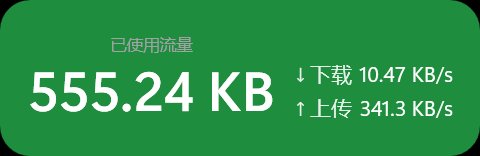
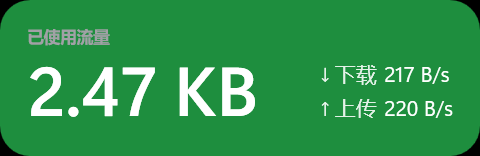
feat(capsule): align caption with traffic value

diff --git a/HotspotMeter.App/Views/CapsuleWindow.xaml b/HotspotMeter.App/Views/CapsuleWindow.xaml
@@ -21,6 +21,11 @@
         FontFamily="Segoe UI Variable Text, Segoe UI, Microsoft YaHei UI"
         d:DataContext="{d:DesignInstance Type=vm:CapsuleViewModel}">
 
+    <Window.Resources>
+        <!-- 标签与数字共用同一字体家族，避免"说明像另一种字体"的割裂感。 -->
+        <FontFamily x:Key="TrafficFontFamily">Segoe UI Variable Display, Segoe UI, Microsoft YaHei UI</FontFamily>
+    </Window.Resources>
+
     <Window.ContextMenu>
         <ContextMenu Style="{StaticResource CapsuleContextMenuStyle}">
             <!--
@@ -48,46 +53,43 @@
             ToolTip="{Binding TooltipText}"
             MouseLeftButtonDown="OnSurfaceMouseLeftButtonDown">
         <!--
-            4C-10：左侧恢复"已使用流量"说明，并放到数字上方。
-            标签与数字同处第 0 列、各自水平居中，因此标签中心与数字中心对齐；
-            速度块单独占第 1 列的第 1 行，和数字同处一行并 VerticalAlignment=Center，
+            4C-11：标签与数字合并为左侧同一组视觉元素。
+            外层 StackPanel 是二者唯一的垂直布局容器：先标签、后数字，二者都 HorizontalAlignment=Left，
+            因此左边缘由同一个布局基准决定，不靠 Margin/绝对定位模拟。
+            数字与速度块放在内层 Grid 的同一行，速度块仍 VerticalAlignment=Center，
             所以 4C-6 的"速度块中心 = 流量数字中心"关系保持不变。
-            两行整体在外层 Grid 里垂直居中。
         -->
-        <Grid Margin="{Binding CapsuleContentMargin}" VerticalAlignment="Center">
-            <Grid.ColumnDefinitions>
-                <ColumnDefinition Width="*" />
-                <ColumnDefinition Width="Auto" />
-            </Grid.ColumnDefinitions>
-            <Grid.RowDefinitions>
-                <RowDefinition Height="Auto" />
-                <RowDefinition Height="Auto" />
-            </Grid.RowDefinitions>
-
+        <StackPanel Margin="{Binding CapsuleContentMargin}" VerticalAlignment="Center">
             <TextBlock x:Name="TrafficCaption"
-                       Grid.Row="0" Grid.Column="0"
                        Text="已使用流量"
-                       FontSize="{Binding CaptionFontSize}"
+                       FontFamily="{StaticResource TrafficFontFamily}"
+                       FontSize="{Binding CaptionFontSize}" FontWeight="SemiBold"
                        Foreground="{StaticResource TextSecondary}"
-                       HorizontalAlignment="Center" VerticalAlignment="Bottom"
+                       HorizontalAlignment="Left"
                        Margin="{Binding CaptionMargin}"
                        Visibility="{Binding ShowCaption, Converter={StaticResource BoolToVisibility}}" />
 
-            <!--
-                流量数字放在 Viewbox 里：正常文本不放大；极端长文本（例如 999.9 GB）
-                在窄胶囊中只会等比缩小，绝不会裁切或把速度块挤出窗口。
-            -->
-            <Viewbox Grid.Row="1" Grid.Column="0"
-                     Stretch="Uniform" StretchDirection="DownOnly"
-                     HorizontalAlignment="Center" VerticalAlignment="Center">
-                <TextBlock x:Name="TrafficValue"
-                           Text="{Binding SessionText}"
-                           FontFamily="Segoe UI Variable Display, Segoe UI, Microsoft YaHei UI"
-                           FontSize="{Binding TrafficFontSize}" FontWeight="SemiBold" Foreground="White"
-                           LineHeight="{Binding TrafficLineHeight}" LineStackingStrategy="BlockLineHeight" />
-            </Viewbox>
+            <Grid>
+                <Grid.ColumnDefinitions>
+                    <ColumnDefinition Width="*" />
+                    <ColumnDefinition Width="Auto" />
+                </Grid.ColumnDefinitions>
 
-            <StackPanel x:Name="SpeedBlock" Grid.Row="1" Grid.Column="1"
+                <!--
+                    流量数字放在 Viewbox 里：正常文本不放大；极端长文本（例如 999.9 GB）
+                    在窄胶囊中只会等比缩小，绝不会裁切或把速度块挤出窗口。
+                -->
+                <Viewbox Grid.Column="0"
+                         Stretch="Uniform" StretchDirection="DownOnly"
+                         HorizontalAlignment="Left" VerticalAlignment="Center">
+                    <TextBlock x:Name="TrafficValue"
+                               Text="{Binding SessionText}"
+                               FontFamily="{StaticResource TrafficFontFamily}"
+                               FontSize="{Binding TrafficFontSize}" FontWeight="SemiBold" Foreground="White"
+                               LineHeight="{Binding TrafficLineHeight}" LineStackingStrategy="BlockLineHeight" />
+                </Viewbox>
+
+                <StackPanel x:Name="SpeedBlock" Grid.Column="1"
                         VerticalAlignment="Center" HorizontalAlignment="Right"
                         Grid.IsSharedSizeScope="True"
                         UseLayoutRounding="False"
@@ -120,5 +122,6 @@
                 </Grid>
             </StackPanel>
         </Grid>
+        </StackPanel>
     </Border>
 </Window>

diff --git a/HotspotMeter.App/Services/UiDump.cs b/HotspotMeter.App/Services/UiDump.cs
@@ -257,7 +257,8 @@ internal static class UiDump
             : 0;
 
         var captionAbove = false;
-        var captionCentered = false;
+        var captionLeftAligned = false;
+        var captionFontMatch = false;
         var captionVisible = false;
         if (window.FindName("TrafficCaption") is TextBlock caption &&
             window.FindName("TrafficValue") is TextBlock trafficValue)
@@ -268,15 +269,18 @@ internal static class UiDump
             var trafficRect = trafficValue.TransformToAncestor(window)
                 .TransformBounds(new Rect(0, 0, trafficValue.ActualWidth, trafficValue.ActualHeight));
             captionAbove = captionRect.Bottom <= trafficRect.Top + 0.5;
-            captionCentered = Math.Abs(captionRect.Left + captionRect.Width / 2 -
-                                       (trafficRect.Left + trafficRect.Width / 2)) <= 0.5;
+            captionLeftAligned = Math.Abs(captionRect.Left - trafficRect.Left) <= 0.5;
+            captionFontMatch = string.Equals(
+                caption.FontFamily.Source, trafficValue.FontFamily.Source, StringComparison.OrdinalIgnoreCase);
         }
 
         // 自动适配的 Compact/Minimal 密度有意隐藏标签；此时只校验"没有状态文字/图标"。
-        var captionOk = !captionVisible || (captionPresent && captionAbove && captionCentered);
+        var captionOk = !captionVisible ||
+                        (captionPresent && captionAbove && captionLeftAligned && captionFontMatch);
         var ok = !statusPresent && captionOk && !hasWifiPath;
         return $"simplified ok={ok} statusText={statusPresent} caption={captionPresent} " +
-               $"captionVisible={captionVisible} captionAbove={captionAbove} captionCentered={captionCentered} " +
+               $"captionVisible={captionVisible} captionAbove={captionAbove} " +
+               $"captionLeftAligned={captionLeftAligned} captionFontMatch={captionFontMatch} " +
                $"wifiIcon={hasWifiPath} trafficFont={trafficFont:0.#} speedFont={speedFont:0.#}";
     }
 

diff --git a/docs/02_UI_Specification.md b/docs/02_UI_Specification.md
@@ -1,4 +1,4 @@
-# 02 UI 规范
+# 02 UI 规范
 
 > 标注说明：
 > **【已确认】** 来自用户总指令，不得擅自修改。
@@ -56,7 +56,7 @@
 
 - **左上**：Wi-Fi 状态图标 + 连接状态文字（"已连接" / "未连接"）。
 - **右上**：当前会话已用流量，大字号（【暂定】28–32 px），是整块视觉焦点。
-- **数字上方**："已使用流量"小字（【暂定】10–11 px，次级颜色）。阶段 4C-10 起固定在数字上方；此前版本在下方。
+- **数字上方**："已使用流量"小字（【暂定】10–11 px，次级颜色），与数字同字体家族、同字重、左边缘对齐。阶段 4C-10 起固定在数字上方，4C-11 起改为左对齐；此前版本在下方且居中。
 - **右下**：`↓ 下载速度` 与 `↑ 上传速度`，小字（【暂定】10–11 px）。
 - 未连接时，流量数字旁/下方必须有"上次会话"字样，明确这是历史数据。
 
@@ -224,17 +224,19 @@
 
 - 尺寸：标准 320×104 DIP，圆角 20；预设迷你 220×71.5 / 小型 280×91 / 标准 320×104 / 大型 400×130；
   自定义范围 220–480 × 71.5–156，宽高比固定 320 : 104（容差 1.2%）。全部视觉量由同一个缩放系数派生。
-- 结构（阶段 4C-10，基于 4C-8 精简版）：不显示 Wi-Fi 图标与连接状态（由底色表达）；左侧为
-  "已使用流量"小标签 + 会话累计流量数字（标准档 46 DIP，随尺寸等比），标签在数字正上方、二者水平居中对齐；
+- 结构（阶段 4C-11，基于 4C-8 精简版）：不显示 Wi-Fi 图标与连接状态（由底色表达）；左侧为
+  "已使用流量"小标签 + 会话累计流量数字（标准档 46 DIP，随尺寸等比）。二者放在同一个垂直 `StackPanel` 中，
+  都 `HorizontalAlignment=Left`，左边缘由同一布局基准决定（不使用 Margin/绝对定位模拟对齐）；标签在数字正上方。
   右侧 ↓ 下载 / ↑ 上传两行竖排实时速度（下载在上、上传在下）。
   流量数字放在 `Viewbox`（只缩小、不裁切），长文本如"999.9 GB"仍完整显示。
-- 说明标签（4C-10）：字号 11×缩放系数、`TextSecondary #A1A1A6`、与数字间距 2×缩放系数 DIP；
+- 说明标签（4C-11）：字号 11×缩放系数、`TextSecondary #A1A1A6`、`FontWeight=SemiBold`、与数字间距 2×缩放系数 DIP；
+  与数字共用 `TrafficFontFamily`（`Segoe UI Variable Display, Segoe UI, Microsoft YaHei UI`）。
   自动适配的 Compact/Minimal 密度因高度不足隐藏该标签，Normal 密度与普通四档/自定义尺寸始终显示。
 - 对齐（阶段 4C-6）：流量数字与速度块放在**同一个 Grid 行的同一行高**里，二者都是
   `VerticalAlignment="Center"`，因此速度块整体中心严格等于流量数字控件的中心；不依赖任何手工 Margin。
   四档 + 自定义尺寸均由 `UiDump.CheckSpeedAlignment` 断言（容差 0.5 DIP），实测偏差 ≤0.33 DIP。
 - 连不上热点时左侧显示"上次 {流量}"，不显示连接状态文字；`_` 表示从未有会话。
-- 四档均通过"文本全在窗口内且互不重叠"的矩形断言（`layout=ok texts=7`）。
+- 四档均通过"文本全在窗口内且互不重叠"的矩形断言（`layout=ok texts=8`）。
 - 颜色：胶囊背景仍按连接状态使用绿色 `#1E8E3E` / 红色 `#C5221F`（连接状态只保留背景语义）；
   文字 `#F5F5F7`，速度标签 `#A1A1A6`。
 
@@ -287,7 +289,7 @@
 - 已知限制：任务栏低于 44 DIP 时无法在保持完整可读信息的前提下完整适配；任务栏激活后仍可能短暂遮挡，
   独立窗口没有原生任务栏组件的层级契约。
 
-### 7.7 精简胶囊的实测尺寸（阶段 4C-8，4C-10 增补标签）
+### 7.7 精简胶囊的实测尺寸（阶段 4C-8，4C-11 标签左对齐）
 
 | 模式 | 尺寸（DIP） | 流量字号 | 速度字号 | 说明 |
 | --- | --- | --- | --- | --- |
@@ -307,15 +309,17 @@
   不用 `Topmost=false→true` 抢焦点；自动适配模式的位置夹取以显示器边界为界（可拖入任务栏），
   普通模式以工作区 + 8 DIP 为界（4C-9 修订）。
 
-### 7.8 说明标签与数字的实测几何（阶段 4C-10）
+### 7.8 说明标签与数字的实测几何（阶段 4C-11）
 
 标准档 320×104、150% DPI，UiDump 实测（窗口内 DIP 坐标）：
 
 | 元素 | 位置/尺寸 |
 | --- | --- |
-| "已使用流量" | x=85.3, y=16.7, 54.7×14.7，字号 11 |
-| 流量数字 | x=55.3, y=33.3, 114.7×54，字号 46 |
+| "已使用流量" | x=18, y=16.7, 54.7×14.7，字号 11，SemiBold |
+| 流量数字 | x=18, y=33.3, 146.7×54，字号 46，SemiBold |
 | ↓/↑ 速度块 | y=39.7..80.9，中心 60.3 |
 
-- 标签底边 31.4，数字顶边 33.3，间距 1.9 DIP；二者水平中心均为 112.65。
+- 标签与数字左边缘均为 x=18，严格对齐（UiDump `captionLeftAligned delta=0`）。
+- 标签底边 31.4，数字顶边 33.3，间距 1.9 DIP；两者字体家族同为 `Segoe UI Variable Display`。
 - 速度块中心 60.3 = 数字控件中心 60.3，4C-6 的对齐基准未被破坏。
+

diff --git a/PROJECT_CONTEXT.md b/PROJECT_CONTEXT.md
@@ -11,7 +11,7 @@ Windows 原生 WPF 工具，监控电脑连接手机 Wi-Fi 热点时的网卡流
 
 | 项目 | 状态 |
 | --- | --- |
-| 当前阶段 | **阶段 4C-10 已实现（胶囊"已使用流量"标签移至数字上方，构建 0/0，385/385 测试通过），等待用户验收** |
+| 当前阶段 | **阶段 4C-11 已实现（胶囊标签与数字统一字体家族、左边缘对齐，构建 0/0，385/385 测试通过），等待用户验收** |
 | 代码状态 | Core：模型/接口/累积器/恢复判定；Infrastructure：WLAN 检测、计数器、`MonitorEngine`、系统时钟、SQLite 基础设施（3A）、业务表 v2/v3 与基础仓储/OperationId/时间切分/日汇总/摘要编码（3B-1～3B-5a）；App：胶囊窗口 + `CapsuleViewModel` + `MonitorSessionService` + 窗口位置/尺寸存储 + 托盘 + 设置窗口；`tools/ApiProbe`（阶段 1 原型）与 `tools/MonitorHost`（阶段 2 宿主），均不入解决方案 |
 | 未实现 | 统计窗口、右键菜单“流量统计”功能、快照/会话持久化管线（StepBuffer、`StepProduced`、`SessionPersistenceService`、Settlement 入口、Writer 状态机）、启动恢复与一致性修复、开机启动、用户选择目标热点 |
 | 下一次要做的事 | 用户验收 4C-9（重点：开启自动适配后胶囊是否落在任务栏底部偏左、能否拖进任务栏、任务栏激活后是否仍被遮挡）；验收后进入统计窗口开发 |
@@ -172,6 +172,15 @@ Windows 原生 WPF 工具，监控电脑连接手机 Wi-Fi 热点时的网卡流
 - 实机标准档：标签 `85.3,16.7,54.7×14.7`、数字 `55.3,33.3,114.7×54`，间距 1.9 DIP，水平中心均为 112.65；速度块中心 60.3 与数字中心一致。见 `docs/images/capsule-caption-above.png`。
 - 未验证：真实鼠标交互、视觉引擎目检（仍不可用，只能依赖坐标与像素统计）。
 
+### 阶段 4C-11 实际结果（2026-11-13，标签与数字统一字体、左对齐）
+
+- `CapsuleWindow.xaml` 左侧改为单个 `StackPanel`：`TrafficCaption` 在上，内层 Grid（数字 + 速度块）在下；标签与数字都 `HorizontalAlignment=Left`，左边缘由同一容器基准决定，不使用 Margin/绝对定位模拟。
+- 新增 `TrafficFontFamily` 资源（`Segoe UI Variable Display, Segoe UI, Microsoft YaHei UI`），标签与数字共用；标签 `FontWeight=SemiBold`、字号 11×s、`TextSecondary`，数字 46×s、SemiBold、White 均未改。
+- 速度块仍与数字同处内层 Grid 同一行、`VerticalAlignment=Center`，位置/对齐与 4C-10 一致。
+- `UiDump` 断言改为 `captionLeftAligned`（左边缘差 ≤0.5）与 `captionFontMatch`（`FontFamily.Source` 相等）。
+- 验证：`dotnet build` 0/0、`dotnet test` **385/385**；`artifacts/ui-selftest28/selftest.txt`：四档+自定义+长文本 `layout=ok texts=8`，`captionAbove=True captionLeftAligned=True captionFontMatch=True`，速度 delta 0（自动 Minimal 0.33）；实机标准档标签与数字 x 均为 18，间距 1.9 DIP，速度块中心 60.3 = 数字中心。
+- 未验证：字体渲染观感需人工确认；不同 DPI 下字形 bearing 的亚像素差异未单独测量。
+
 ## 3. 文档索引与阅读顺序
 
 | 文件 | 内容 | 什么时候读 |
@@ -266,3 +275,4 @@ dotnet run --project tools/MonitorHost -- --ssid "OPPO Find X9" --seconds 20 --j
 | 2026-11-13 | 阶段 4C-8：自动适配只调尺寸（高度优先 40–104 DIP、三档密度）、胶囊删除 Wi-Fi/状态/说明并放大数字与速度；新增 12 个测试（376 通过）；新增 D-069～D-073；未 commit（混合改动无法安全拆分） |
 | 2026-11-13 | 阶段 4C-9：自动适配可拖入任务栏（显示器边界 + 0 DIP）、首次开启自动定位底部偏左 120 DIP、拖动结束只重算尺寸、`TaskbarCreated` 层级恢复与 `AppLog`；新增 9 个测试（385 通过）；新增 D-074～D-077；统一提交 4C-1～4C-9 全部改动（未 push） |
 | 2026-11-13 | 阶段 4C-10：胶囊说明标签"已使用流量"移到数字上方（两行 Grid，速度块与数字同行保持中心对齐）；普通四档/自定义可见，自动适配 Compact/Minimal 隐藏；更新 docs/02、D-079、日志 |
+| 2026-11-13 | 阶段 4C-11：标签与数字合并到同一 StackPanel、共用 TrafficFontFamily、标签 SemiBold 且左边缘严格对齐；UiDump 增加左对齐/字体一致断言；新增 D-080（覆盖 D-079 对齐部分） |

diff --git a/docs/10_Development_Log.md b/docs/10_Development_Log.md
@@ -948,3 +948,20 @@ CREATE TABLE SchemaInfo (Key TEXT PRIMARY KEY NOT NULL, Value TEXT NOT NULL);
   速度块中心 60.3 与数字中心一致。
 - 文档：`docs/02` §1.3、§7.1、§7.6、§7.7 更新并新增 §7.8；`docs/09` 新增 D-079；本日志；`PROJECT_CONTEXT`。
 - 未验证：视觉引擎仍不可用，标签灰度/间距只能靠坐标与像素统计判断；真实鼠标交互仍需人工验收。
+
+## 阶段 4C-11：标签与数字统一字体、左对齐
+
+- 需求：标签与数字同字体家族、风格协调；标签在数字上方；左边缘严格对齐；四档/自定义尺寸不重叠、不裁切。
+- 实现：`CapsuleWindow.xaml` 左侧改为 `StackPanel`（标签 → 内层 Grid=数字+速度），标签与数字都
+  `HorizontalAlignment=Left`；新增 `TrafficFontFamily` 资源供二者共用；标签加 `FontWeight=SemiBold`，
+  字号仍 11×s、颜色 `TextSecondary`。数字字号 46×s、字重、颜色未改。
+- 速度区未动：与数字同处内层 Grid 同一行，`VerticalAlignment=Center`，`Margin` 仍为 `SpeedBlockMargin`。
+- `UiDump.CheckSimplifiedContent` 把 `captionCentered` 改为 `captionLeftAligned`，并新增 `captionFontMatch`
+  （比较 `FontFamily.Source`）；断言左边缘差 ≤0.5 DIP。
+- 自检 `artifacts/ui-selftest28/selftest.txt`：四档+自定义+长文本全部 `layout=ok texts=8`，
+  `captionAbove=True captionLeftAligned=True captionFontMatch=True`；速度对齐 delta 0（自动 Minimal 0.33）；
+  自动适配/定位/固定/设置/重启路径全部通过。
+- 实机标准档 UiDump：标签 `x=18,y=16.7,54.7×14.7`，数字 `x=18,y=33.3,146.7×54`，左边缘差 0；间距 1.9 DIP；
+  速度块中心 60.3 = 数字中心 60.3。
+- 文档：`docs/02` §1.3、§7.1、§7.8；`docs/09` D-080（覆盖 D-079 对齐部分）；本日志；`PROJECT_CONTEXT`。
+- 未验证：视觉引擎不可用，字体渲染观感需人工确认；不同 DPI 下字形 bearing 的亚像素差异未单独测量。

diff --git a/docs/09_Decisions.md b/docs/09_Decisions.md
@@ -761,3 +761,18 @@
   数字中心相对速度块下移，破坏 4C-6 的验收项，否决。
 - 限制：44 DIP（Minimal）与 62.7 DIP（Compact）的自动适配放不下第三行文字，刻意隐藏标签；
   普通四档/自定义尺寸全部可见。标签不参与连接状态表达。
+
+## D-080 标签与数字同容器、同字体、左对齐
+
+- 状态：已决定（阶段 4C-11，覆盖 D-079 的对齐部分）
+- 决策：左侧改为一个 `StackPanel`：先 `TrafficCaption`、后数字+速度的内层 `Grid`；标签与数字都
+  `HorizontalAlignment=Left`，左边缘由 StackPanel 的同一布局基准决定。新增 `TrafficFontFamily` 资源，
+  标签与数字共用；标签 `FontWeight=SemiBold` 与数字一致，仅字号 11×s 和 `TextSecondary` 颜色形成层级。
+- 理由：用户要求"统一视觉元素、左边缘严格对齐、不得用固定 Margin 模拟"；StackPanel 顺序布局天然保证
+  两行同左基准，字体资源消除两处硬编码字符串的漂移风险。
+- 速度对齐：数字与速度块仍在内层 Grid 的同一行、速度块 `VerticalAlignment=Center`，因此 4C-6 的
+  "速度块中心 = 数字中心"不受标签行影响。
+- 备选与否决：把标签与数字各自 `HorizontalAlignment=Center`（4C-10 方案）——不满足左对齐要求；
+  给标签加固定左边距对齐数字——用户明确禁止，且缩放后会失配。
+- 限制：自动适配 Compact/Minimal 仍隐藏标签（高度不足）；标签左边缘与数字的"版面左边缘"严格相等，
+  不同字号的字形左侧留白（bearing）可能有亚像素差异，不属布局错位。
